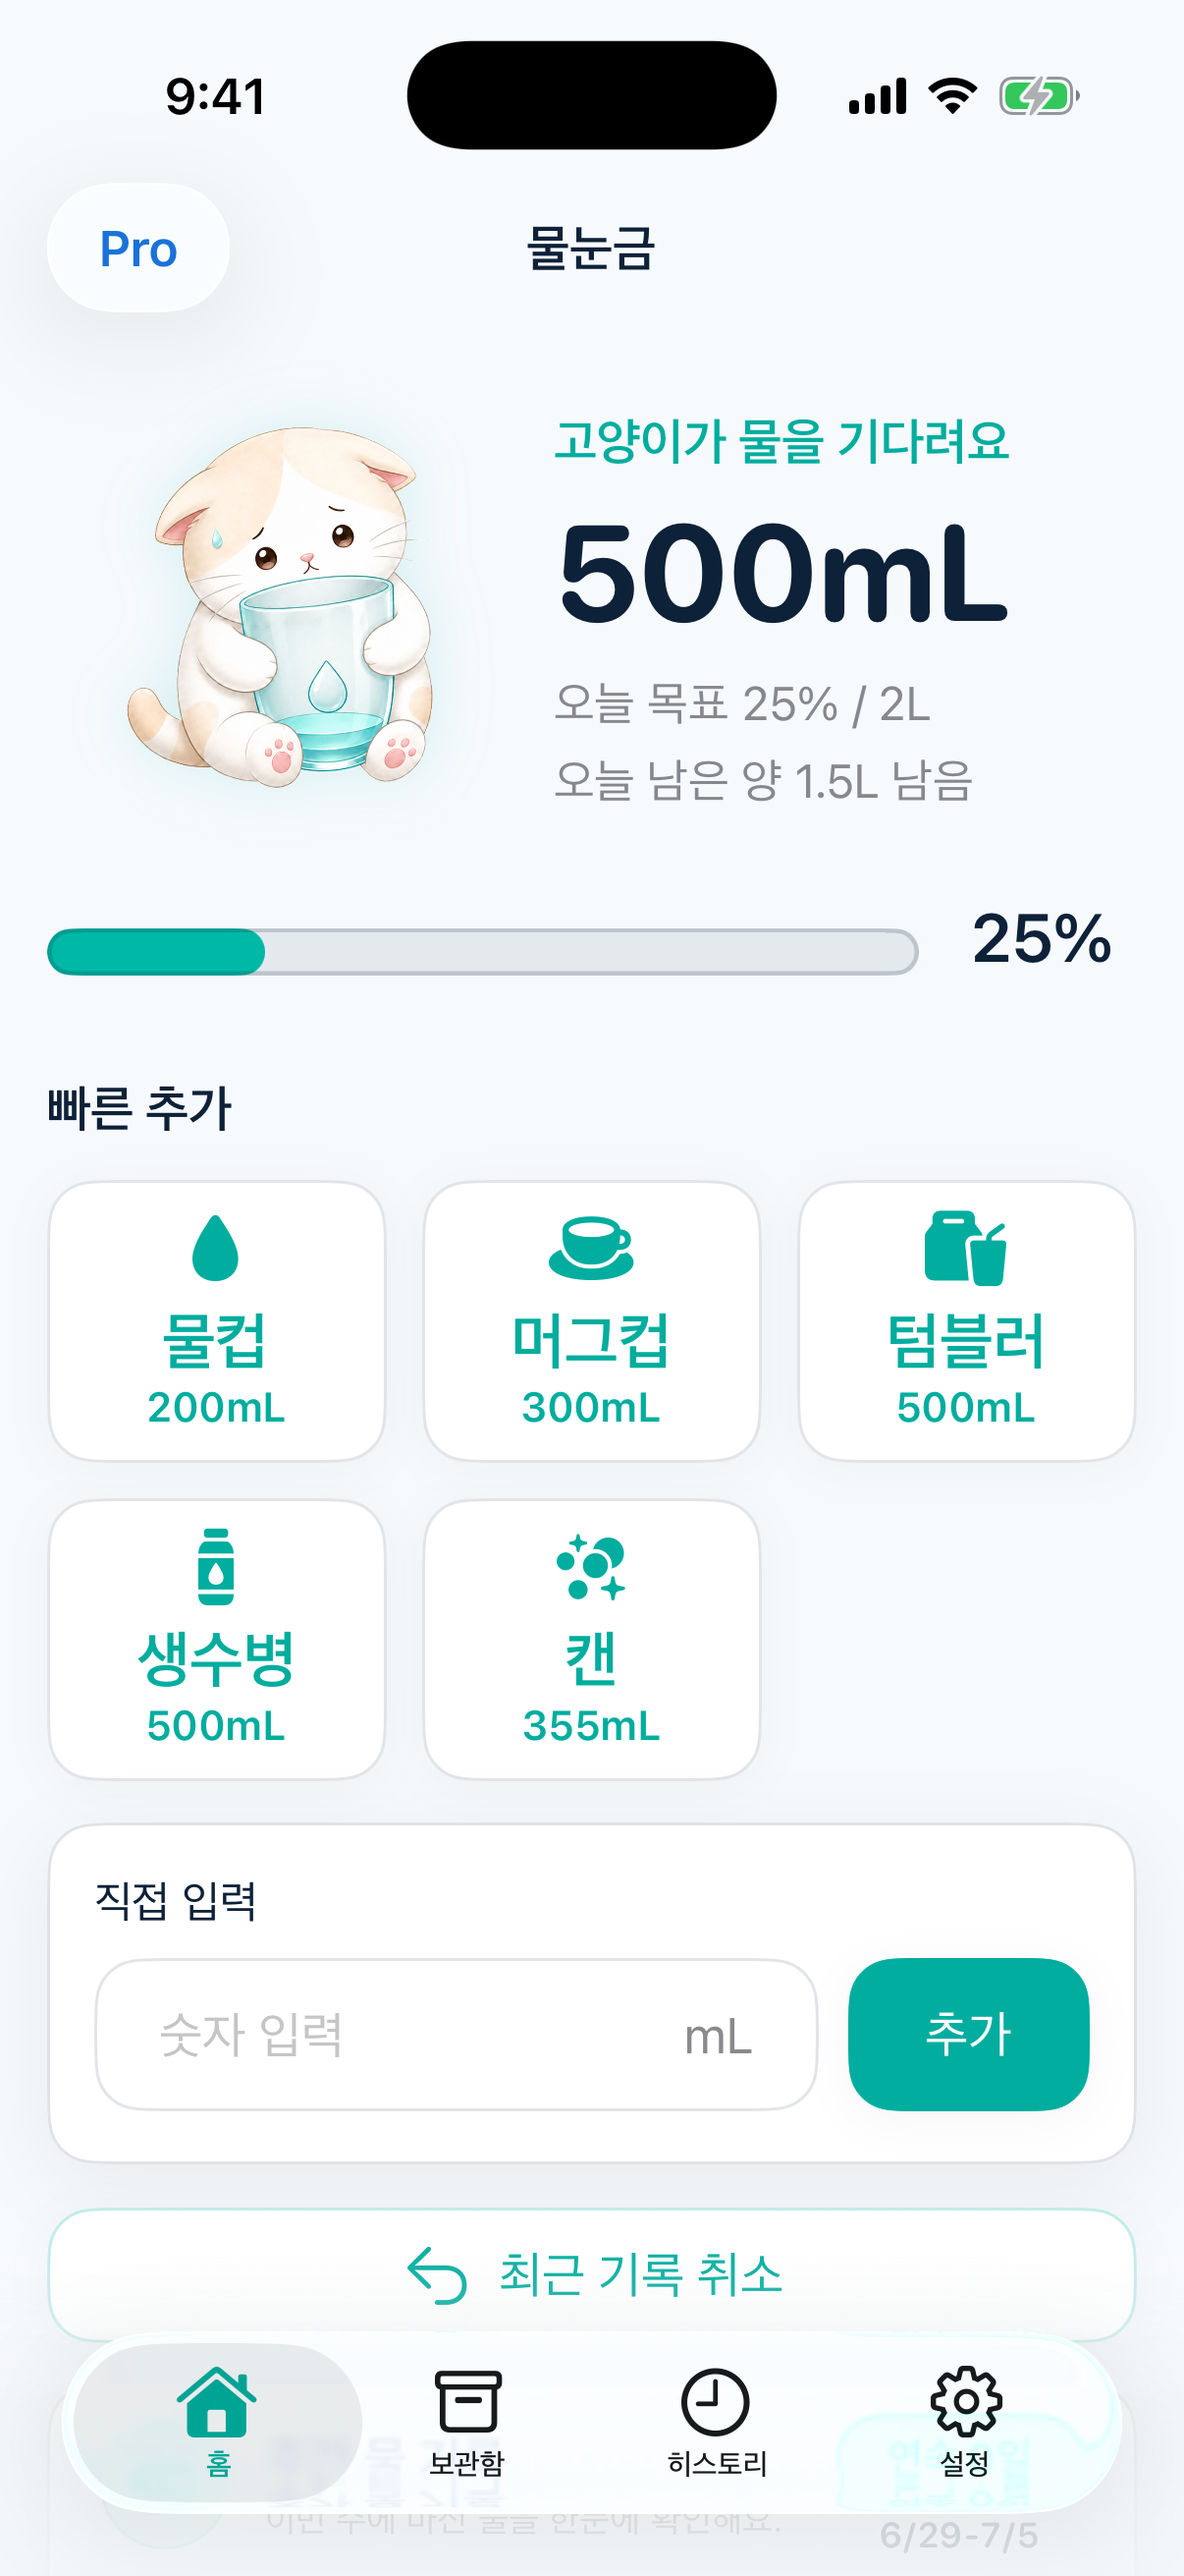
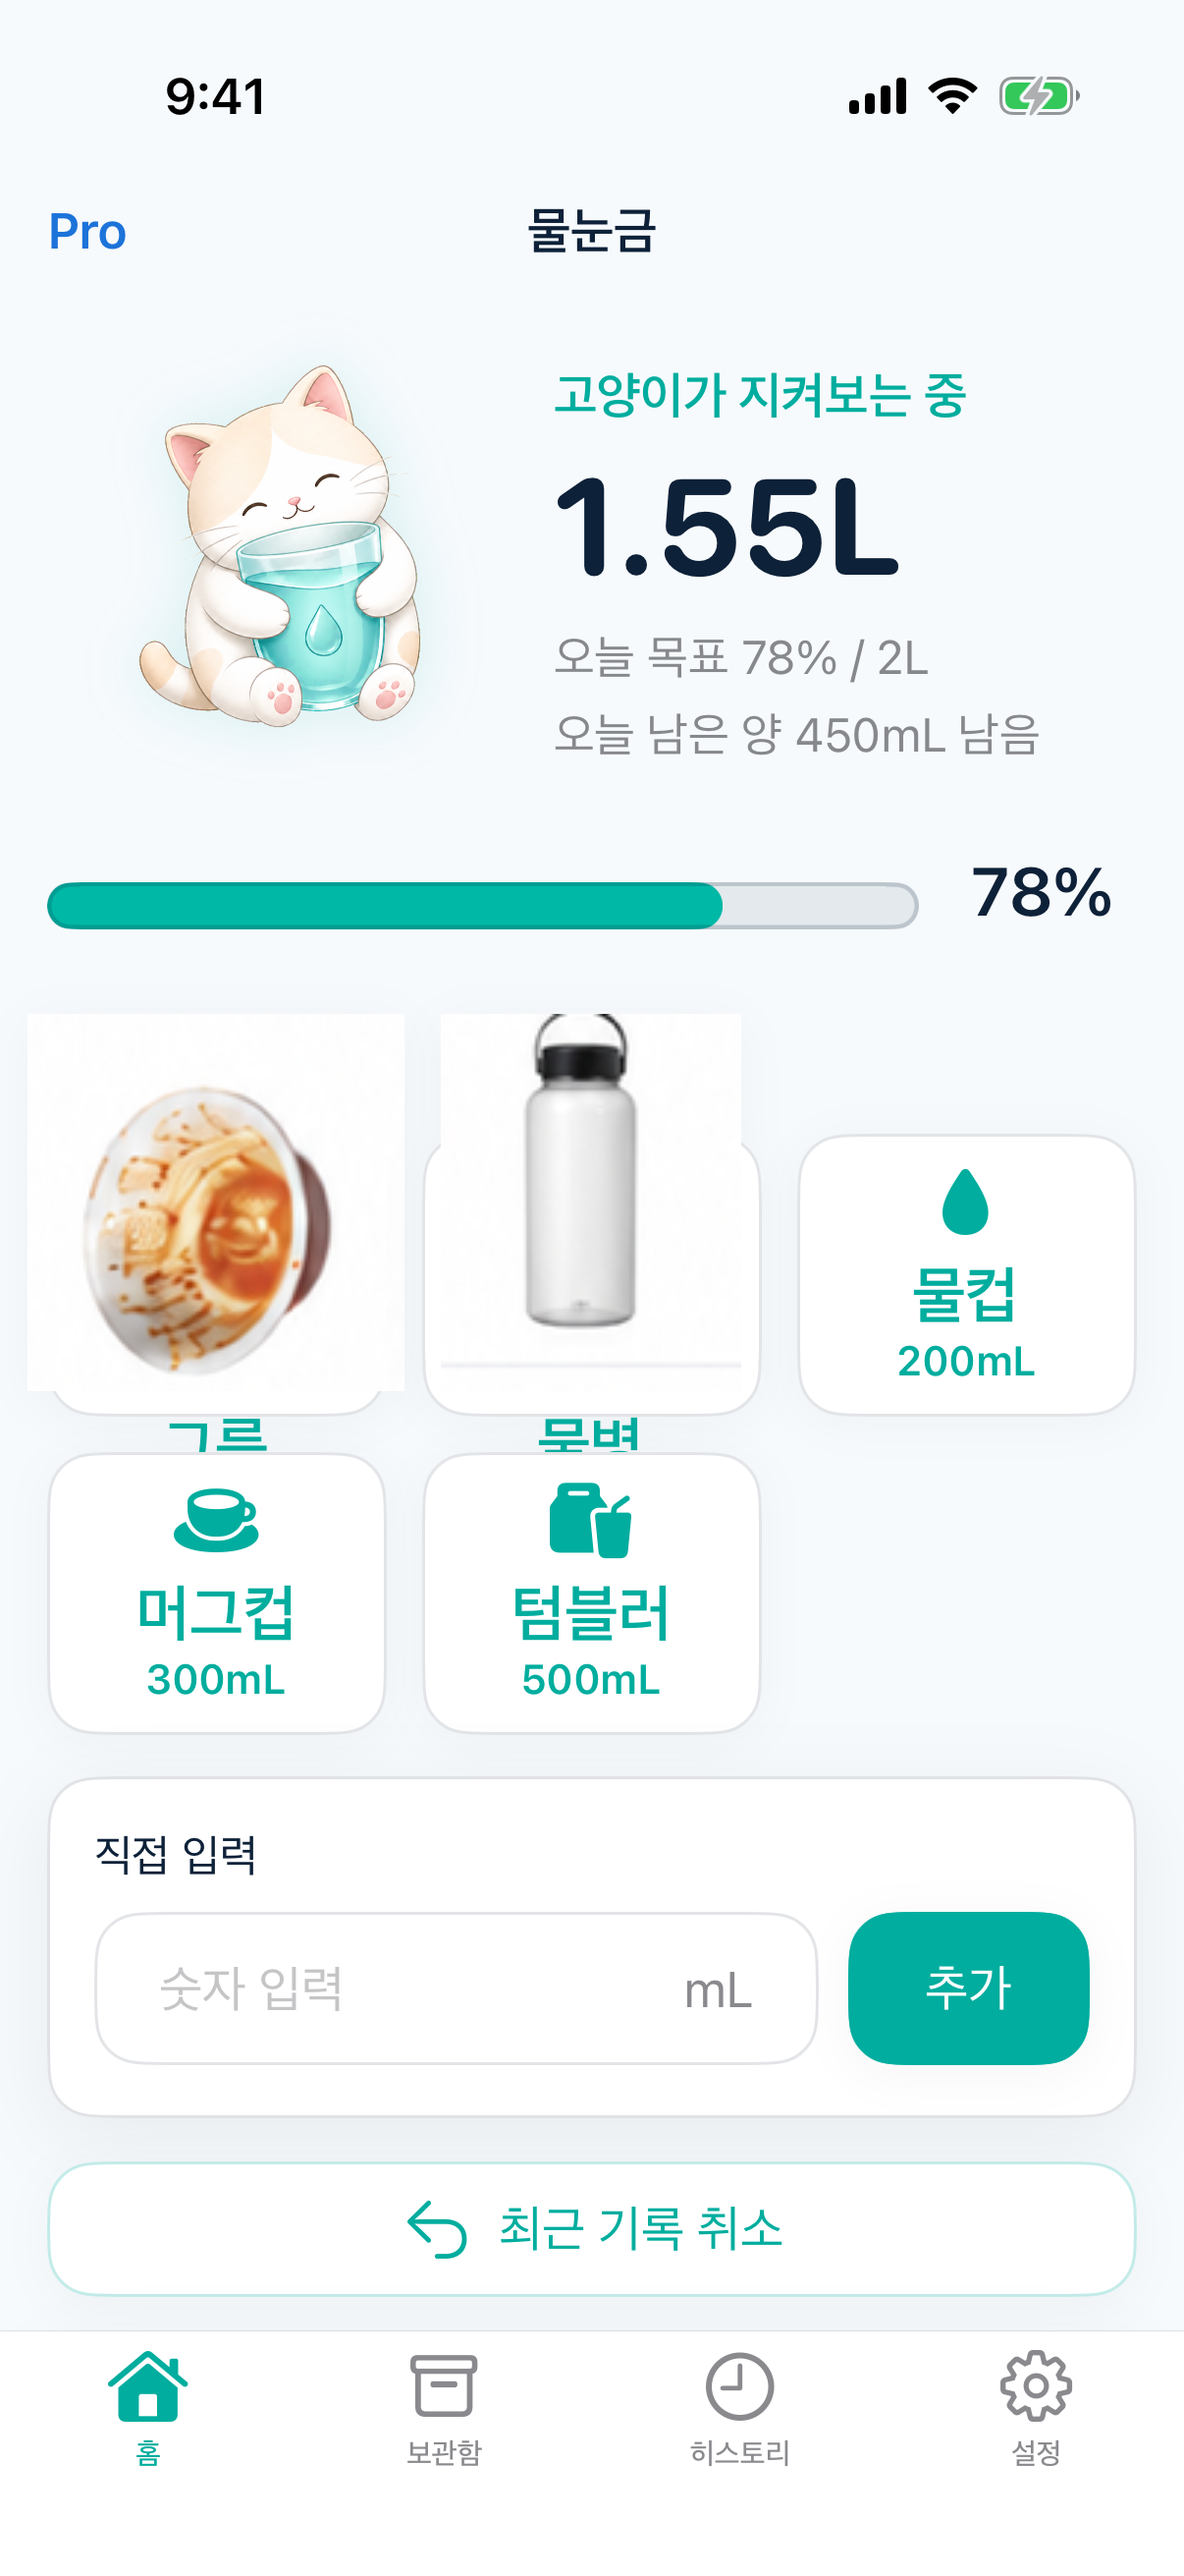
Sync AquaTick landing screenshots from HEAD simulator captures
Replace five screenshot slots with mobile-mcp iPhone captures from
AquaTick e7fa80a0 (-AquaTickScreenshotMode) and watch via simctl fallback.
Update ko/en/ja alt text for redesigned vault collection view and home intake.

diff --git a/aquatick/ja/index.html b/aquatick/ja/index.html
@@ -130,7 +130,7 @@
         <div class="hero-visual">
           <div class="iphone-frame">
             <img src="/aquatick/assets/screenshot-iphone-home.png" width="1206" height="2622" 
-                 alt="AquaTick iPhoneホーム — 猫と500mL記録、クイック追加カードと4タブバーのマルチカードレイアウト">
+                 alt="AquaTick iPhoneホーム — 猫と今日の摂取量、クイック追加カードと4タブバーのマルチカードレイアウト">
           </div>
           <div class="cat-sticker" data-active-text="記録完了！">猫が待っています</div>
           <div class="floating-proof floating-proof-left">3秒で記録</div>
@@ -241,7 +241,7 @@
           <!-- Film 1: Home -->
           <div class="film-card">
             <img src="/aquatick/assets/screenshot-iphone-home.png" width="1206" height="2622" loading="lazy"
-                 alt="AquaTick iPhoneホーム — 猫と500mL記録、クイック追加カードと4タブバー">
+                 alt="AquaTick iPhoneホーム — 猫と今日の摂取量、クイック追加カードと4タブバー">
             <div class="film-caption">
               <strong>アプリを開くと</strong>
               今日の摂取量、クイック追加、直接入力が1画面にまとまります。
@@ -251,7 +251,7 @@
           <!-- Film 2: Vault -->
           <div class="film-card">
             <img src="/aquatick/assets/screenshot-iphone-vault.png" width="1206" height="2622" loading="lazy"
-                 alt="AquaTick 保管庫 — 保存したボトル・カップカードから容量確認と記録">
+                 alt="AquaTick 保管庫 — 検索・フィルター付きカップ一覧で容量確認と記録">
             <div class="film-caption">
               <strong>いつも同じコップを使うとき</strong>
               写真で保存したボトル・カップカードを押して容量を確認し、そのまま記録します。

diff --git a/site-src/templates/aquatick/ja/index.html b/site-src/templates/aquatick/ja/index.html
@@ -130,7 +130,7 @@
         <div class="hero-visual">
           <div class="iphone-frame">
             <img src="/aquatick/assets/screenshot-iphone-home.png" width="1206" height="2622" 
-                 alt="AquaTick iPhoneホーム — 猫と500mL記録、クイック追加カードと4タブバーのマルチカードレイアウト">
+                 alt="AquaTick iPhoneホーム — 猫と今日の摂取量、クイック追加カードと4タブバーのマルチカードレイアウト">
           </div>
           <div class="cat-sticker" data-active-text="記録完了！">猫が待っています</div>
           <div class="floating-proof floating-proof-left">3秒で記録</div>
@@ -241,7 +241,7 @@
           <!-- Film 1: Home -->
           <div class="film-card">
             <img src="/aquatick/assets/screenshot-iphone-home.png" width="1206" height="2622" loading="lazy"
-                 alt="AquaTick iPhoneホーム — 猫と500mL記録、クイック追加カードと4タブバー">
+                 alt="AquaTick iPhoneホーム — 猫と今日の摂取量、クイック追加カードと4タブバー">
             <div class="film-caption">
               <strong>アプリを開くと</strong>
               今日の摂取量、クイック追加、直接入力が1画面にまとまります。
@@ -251,7 +251,7 @@
           <!-- Film 2: Vault -->
           <div class="film-card">
             <img src="/aquatick/assets/screenshot-iphone-vault.png" width="1206" height="2622" loading="lazy"
-                 alt="AquaTick 保管庫 — 保存したボトル・カップカードから容量確認と記録">
+                 alt="AquaTick 保管庫 — 検索・フィルター付きカップ一覧で容量確認と記録">
             <div class="film-caption">
               <strong>いつも同じコップを使うとき</strong>
               写真で保存したボトル・カップカードを押して容量を確認し、そのまま記録します。

diff --git a/aquatick/ko/index.html b/aquatick/ko/index.html
@@ -130,7 +130,7 @@
         <div class="hero-visual">
           <div class="iphone-frame">
             <img src="/aquatick/assets/screenshot-iphone-home.png" width="1206" height="2622" 
-                 alt="AquaTick iPhone 홈 — 고양이와 500mL 기록, 빠른 추가 카드와 4탭 바가 있는 멀티 카드 레이아웃">
+                 alt="AquaTick iPhone 홈 — 고양이와 오늘 섭취량, 빠른 추가 카드와 4탭 바가 있는 멀티 카드 레이아웃">
           </div>
           <div class="cat-sticker" data-active-text="기록 끝!">고양이가 기다림</div>
           <div class="floating-proof floating-proof-left">3초 기록</div>
@@ -241,7 +241,7 @@
           <!-- Film 1: Home -->
           <div class="film-card">
             <img src="/aquatick/assets/screenshot-iphone-home.png" width="1206" height="2622" loading="lazy"
-                 alt="AquaTick iPhone 홈 화면 — 고양이와 500mL 기록, 빠른 추가 카드와 4탭 바">
+                 alt="AquaTick iPhone 홈 화면 — 고양이와 오늘 섭취량, 빠른 추가 카드와 4탭 바">
             <div class="film-caption">
               <strong>앱을 열면</strong>
               고양이와 함께 오늘 섭취량, 빠른 추가, 직접 입력이 한 화면에 모입니다.
@@ -251,7 +251,7 @@
           <!-- Film 2: Vault -->
           <div class="film-card">
             <img src="/aquatick/assets/screenshot-iphone-vault.png" width="1206" height="2622" loading="lazy"
-                 alt="AquaTick 보관함 — 저장한 물병·컵 카드에서 용량과 마시기 버튼으로 기록">
+                 alt="AquaTick 보관함 — 검색·필터가 있는 컵 목록에서 용량 확인 후 기록">
             <div class="film-caption">
               <strong>자주 쓰는 컵이 있을 때</strong>
               사진으로 저장한 물병·컵 카드를 눌러 용량을 확인하고 바로 기록합니다.

diff --git a/site-src/templates/aquatick/ko/index.html b/site-src/templates/aquatick/ko/index.html
@@ -130,7 +130,7 @@
         <div class="hero-visual">
           <div class="iphone-frame">
             <img src="/aquatick/assets/screenshot-iphone-home.png" width="1206" height="2622" 
-                 alt="AquaTick iPhone 홈 — 고양이와 500mL 기록, 빠른 추가 카드와 4탭 바가 있는 멀티 카드 레이아웃">
+                 alt="AquaTick iPhone 홈 — 고양이와 오늘 섭취량, 빠른 추가 카드와 4탭 바가 있는 멀티 카드 레이아웃">
           </div>
           <div class="cat-sticker" data-active-text="기록 끝!">고양이가 기다림</div>
           <div class="floating-proof floating-proof-left">3초 기록</div>
@@ -241,7 +241,7 @@
           <!-- Film 1: Home -->
           <div class="film-card">
             <img src="/aquatick/assets/screenshot-iphone-home.png" width="1206" height="2622" loading="lazy"
-                 alt="AquaTick iPhone 홈 화면 — 고양이와 500mL 기록, 빠른 추가 카드와 4탭 바">
+                 alt="AquaTick iPhone 홈 화면 — 고양이와 오늘 섭취량, 빠른 추가 카드와 4탭 바">
             <div class="film-caption">
               <strong>앱을 열면</strong>
               고양이와 함께 오늘 섭취량, 빠른 추가, 직접 입력이 한 화면에 모입니다.
@@ -251,7 +251,7 @@
           <!-- Film 2: Vault -->
           <div class="film-card">
             <img src="/aquatick/assets/screenshot-iphone-vault.png" width="1206" height="2622" loading="lazy"
-                 alt="AquaTick 보관함 — 저장한 물병·컵 카드에서 용량과 마시기 버튼으로 기록">
+                 alt="AquaTick 보관함 — 검색·필터가 있는 컵 목록에서 용량 확인 후 기록">
             <div class="film-caption">
               <strong>자주 쓰는 컵이 있을 때</strong>
               사진으로 저장한 물병·컵 카드를 눌러 용량을 확인하고 바로 기록합니다.

diff --git a/aquatick/en/index.html b/aquatick/en/index.html
@@ -130,7 +130,7 @@
         <div class="hero-visual">
           <div class="iphone-frame">
             <img src="/aquatick/assets/screenshot-iphone-home.png" width="1206" height="2622" 
-                 alt="AquaTick iPhone home — cat with 500mL logged, quick-add cards and 4-tab bar in a multi-card layout">
+                 alt="AquaTick iPhone home — cat with today's intake, quick-add cards and 4-tab bar in a multi-card layout">
           </div>
           <div class="cat-sticker" data-active-text="Logged!">The cat waits</div>
           <div class="floating-proof floating-proof-left">3-sec log</div>
@@ -241,7 +241,7 @@
           <!-- Film 1: Home -->
           <div class="film-card">
             <img src="/aquatick/assets/screenshot-iphone-home.png" width="1206" height="2622" loading="lazy"
-                 alt="AquaTick iPhone home — cat with 500mL logged, quick-add cards and 4-tab bar">
+                 alt="AquaTick iPhone home — cat with today's intake, quick-add cards and 4-tab bar">
             <div class="film-caption">
               <strong>When you open the app</strong>
               Today's intake, quick add, and manual entry sit together on one home screen.
@@ -251,7 +251,7 @@
           <!-- Film 2: Vault -->
           <div class="film-card">
             <img src="/aquatick/assets/screenshot-iphone-vault.png" width="1206" height="2622" loading="lazy"
-                 alt="AquaTick vault — saved bottle and cup cards with volume and Drink action">
+                 alt="AquaTick vault — searchable cup list with filters to check volume and log">
             <div class="film-caption">
               <strong>When you reuse the same cup</strong>
               Tap a saved bottle or cup card to check the volume and log it in one step.

diff --git a/site-src/templates/aquatick/en/index.html b/site-src/templates/aquatick/en/index.html
@@ -130,7 +130,7 @@
         <div class="hero-visual">
           <div class="iphone-frame">
             <img src="/aquatick/assets/screenshot-iphone-home.png" width="1206" height="2622" 
-                 alt="AquaTick iPhone home — cat with 500mL logged, quick-add cards and 4-tab bar in a multi-card layout">
+                 alt="AquaTick iPhone home — cat with today's intake, quick-add cards and 4-tab bar in a multi-card layout">
           </div>
           <div class="cat-sticker" data-active-text="Logged!">The cat waits</div>
           <div class="floating-proof floating-proof-left">3-sec log</div>
@@ -241,7 +241,7 @@
           <!-- Film 1: Home -->
           <div class="film-card">
             <img src="/aquatick/assets/screenshot-iphone-home.png" width="1206" height="2622" loading="lazy"
-                 alt="AquaTick iPhone home — cat with 500mL logged, quick-add cards and 4-tab bar">
+                 alt="AquaTick iPhone home — cat with today's intake, quick-add cards and 4-tab bar">
             <div class="film-caption">
               <strong>When you open the app</strong>
               Today's intake, quick add, and manual entry sit together on one home screen.
@@ -251,7 +251,7 @@
           <!-- Film 2: Vault -->
           <div class="film-card">
             <img src="/aquatick/assets/screenshot-iphone-vault.png" width="1206" height="2622" loading="lazy"
-                 alt="AquaTick vault — saved bottle and cup cards with volume and Drink action">
+                 alt="AquaTick vault — searchable cup list with filters to check volume and log">
             <div class="film-caption">
               <strong>When you reuse the same cup</strong>
               Tap a saved bottle or cup card to check the volume and log it in one step.
